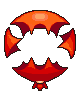
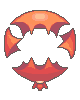
Corrigindo animações dos objetos (ainda com bugs)

diff --git a/ballonShot/Ballon.java b/ballonShot/Ballon.java
@@ -17,8 +17,8 @@ public class Ballon extends Ator
     public Lvl1 mundo;
     public boolean moeda_adicionada = false;
     public boolean bomba_adicionada = false;
-    
-    
+    public int alfa = 255;
+    public int graus = 5;
     public Ballon(){
         setImage("ballon/ballon0.png");
     }
@@ -26,9 +26,10 @@ public class Ballon extends Ator
     public void act() 
     {
         // Add your action code here.
+        
         gerenciaClick();
         gerenciaSubida();
-
+        
         gerenciaImagem(getWorldOfType(Lvl1.class));
         balaoSaiDeCena();//você tem que ser o útimo método a ser executado, por que
         // ninguem gosta de você !
@@ -79,15 +80,24 @@ public class Ballon extends Ator
         }
 
         if ((mundo.getCiclo()%15)==0){
-
+            gerenciaBalanco();
             passo++;
             if (passo==6){
                 passo=1;
             }
         }
-
+        
+        
     }
 
+    public void gerenciaBalanco(){
+        if (getRotation() == 15 || getRotation() == 350){
+            graus = graus * -1;
+            
+        }
+        turn(graus);
+    }
+    
     private void gerenciaSubida(){
         if ((getWorldOfType(Lvl1.class).getCiclo()%4)==0){
             setLocation(getX(),getY()-6);

diff --git a/ballonShot/Bomb.java b/ballonShot/Bomb.java
@@ -16,15 +16,15 @@ public class Bomb extends Ator
     public int passo = 1;    
     public boolean clickado = false;
     public Life vida;
-
+    public int imagem=1;
     public void act() 
     {
         // Add your action code here.
-        setImage("bomb/1.png");
+        
         gerenciaClick();
         gerenciaDescida();
         gerenciaImagem(getWorldOfType(Lvl1.class));
-
+        
         bombaSaiDeCena();
     }
 
@@ -33,10 +33,22 @@ public class Bomb extends Ator
         if (clickado){
 
             setImage("bomb/" + passo + ".png");
-        }    
+        }
+        else {
+            setImage("bomb/" + imagem + ".png");
+            if (imagem > 2){
+                imagem=1;
+                
+            }
+            
+        }
+            
         if ((mundo.getCiclo()%2)==0 && (passo <= 12)){
             passo++;
             
+            imagem++;
+            
+            //turn(5);
         }
     }
 

diff --git a/ballonShot/Coin.java b/ballonShot/Coin.java
@@ -24,6 +24,7 @@ public class Coin extends Ator
         gerenciaImagem(getWorldOfType(Lvl1.class));
         gerenciaDescida();
         gerenciaClick();
+        turn(5);
         coinSaiDeCena();
     }
     
